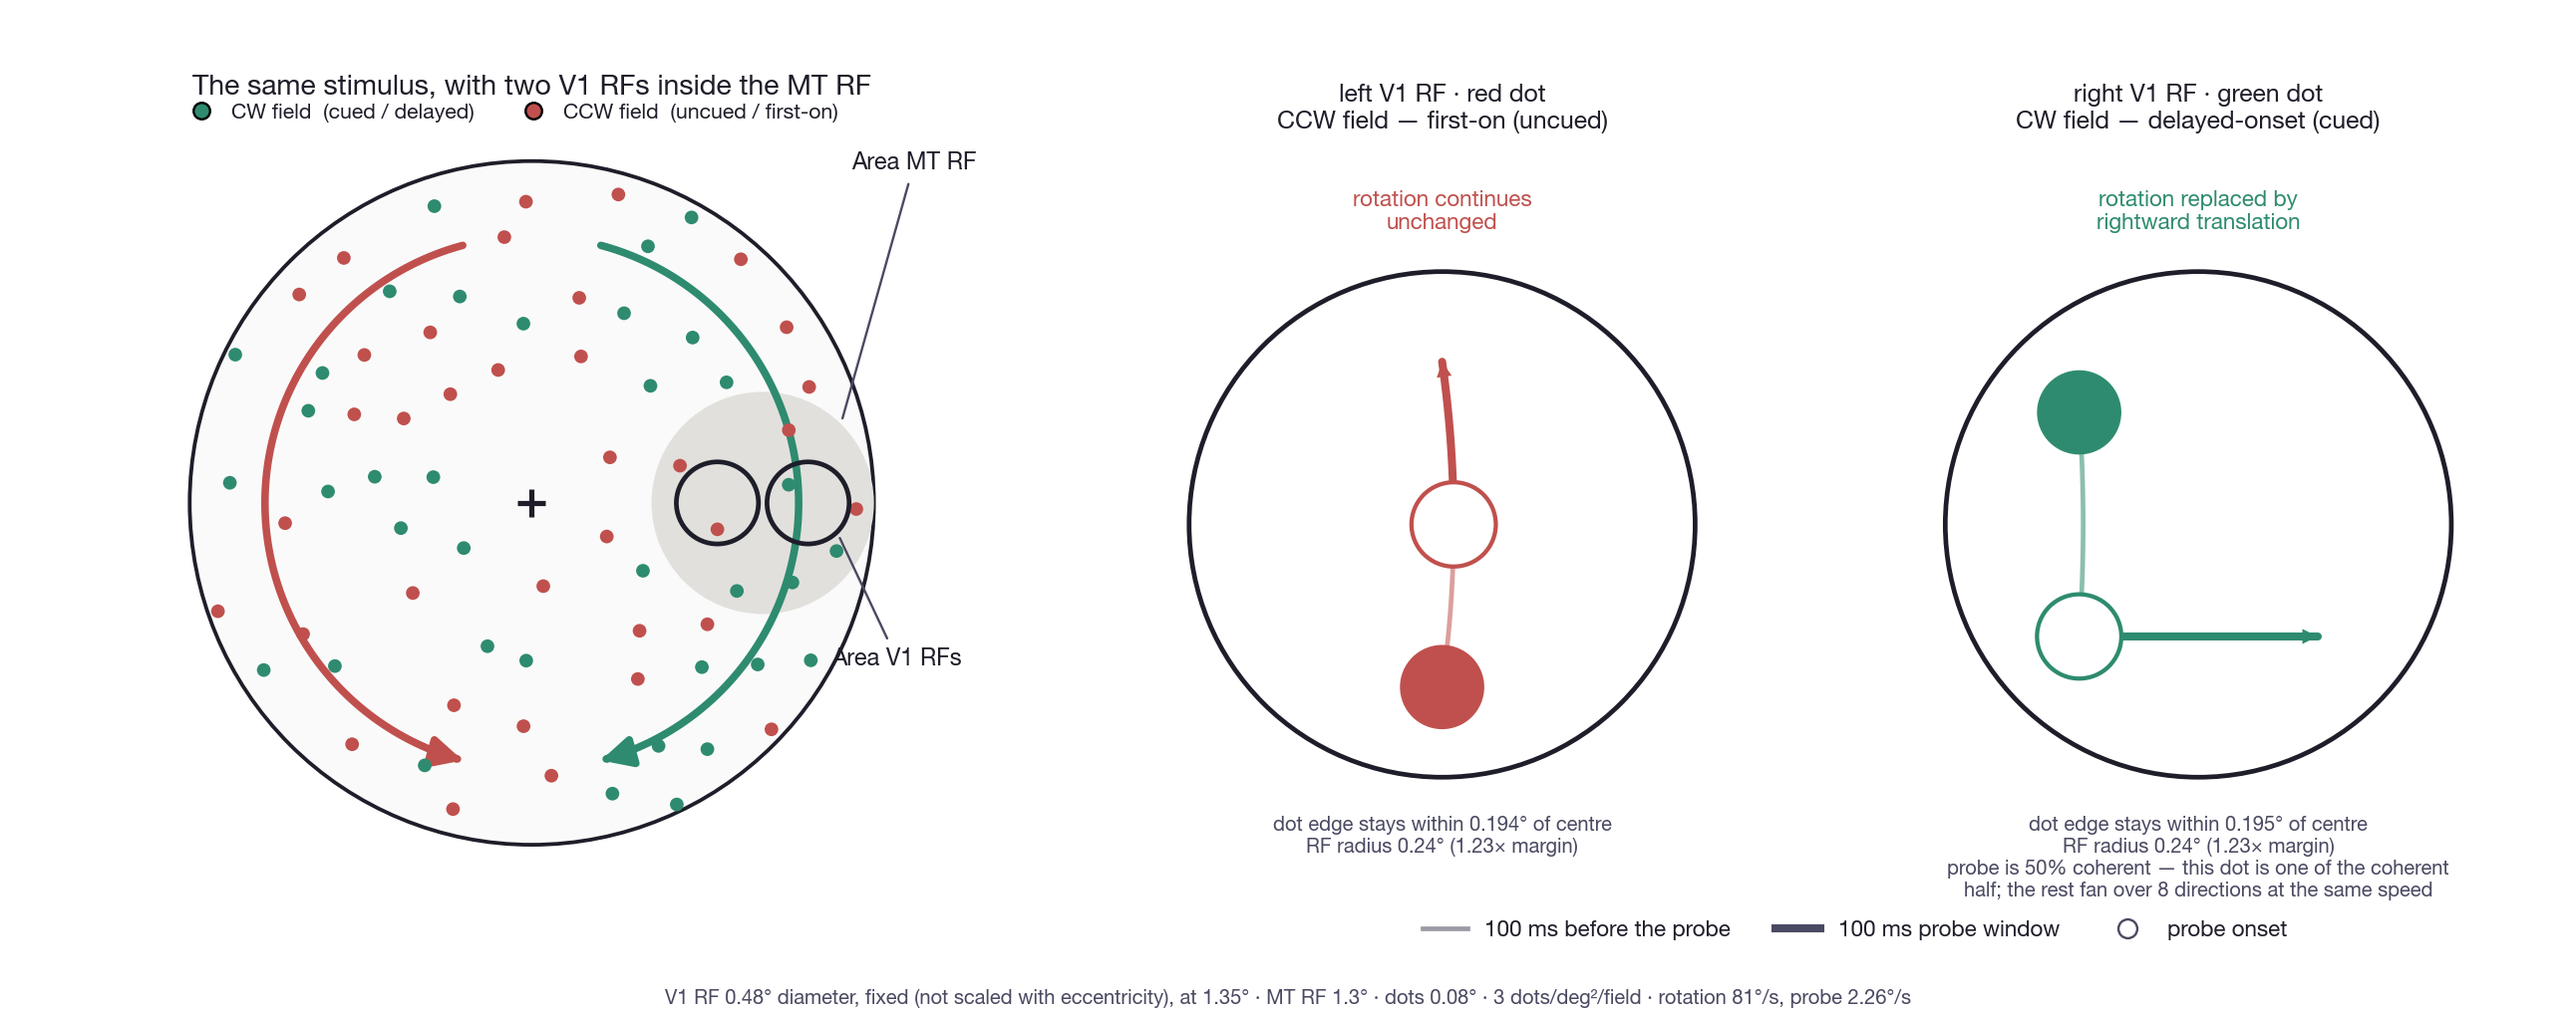
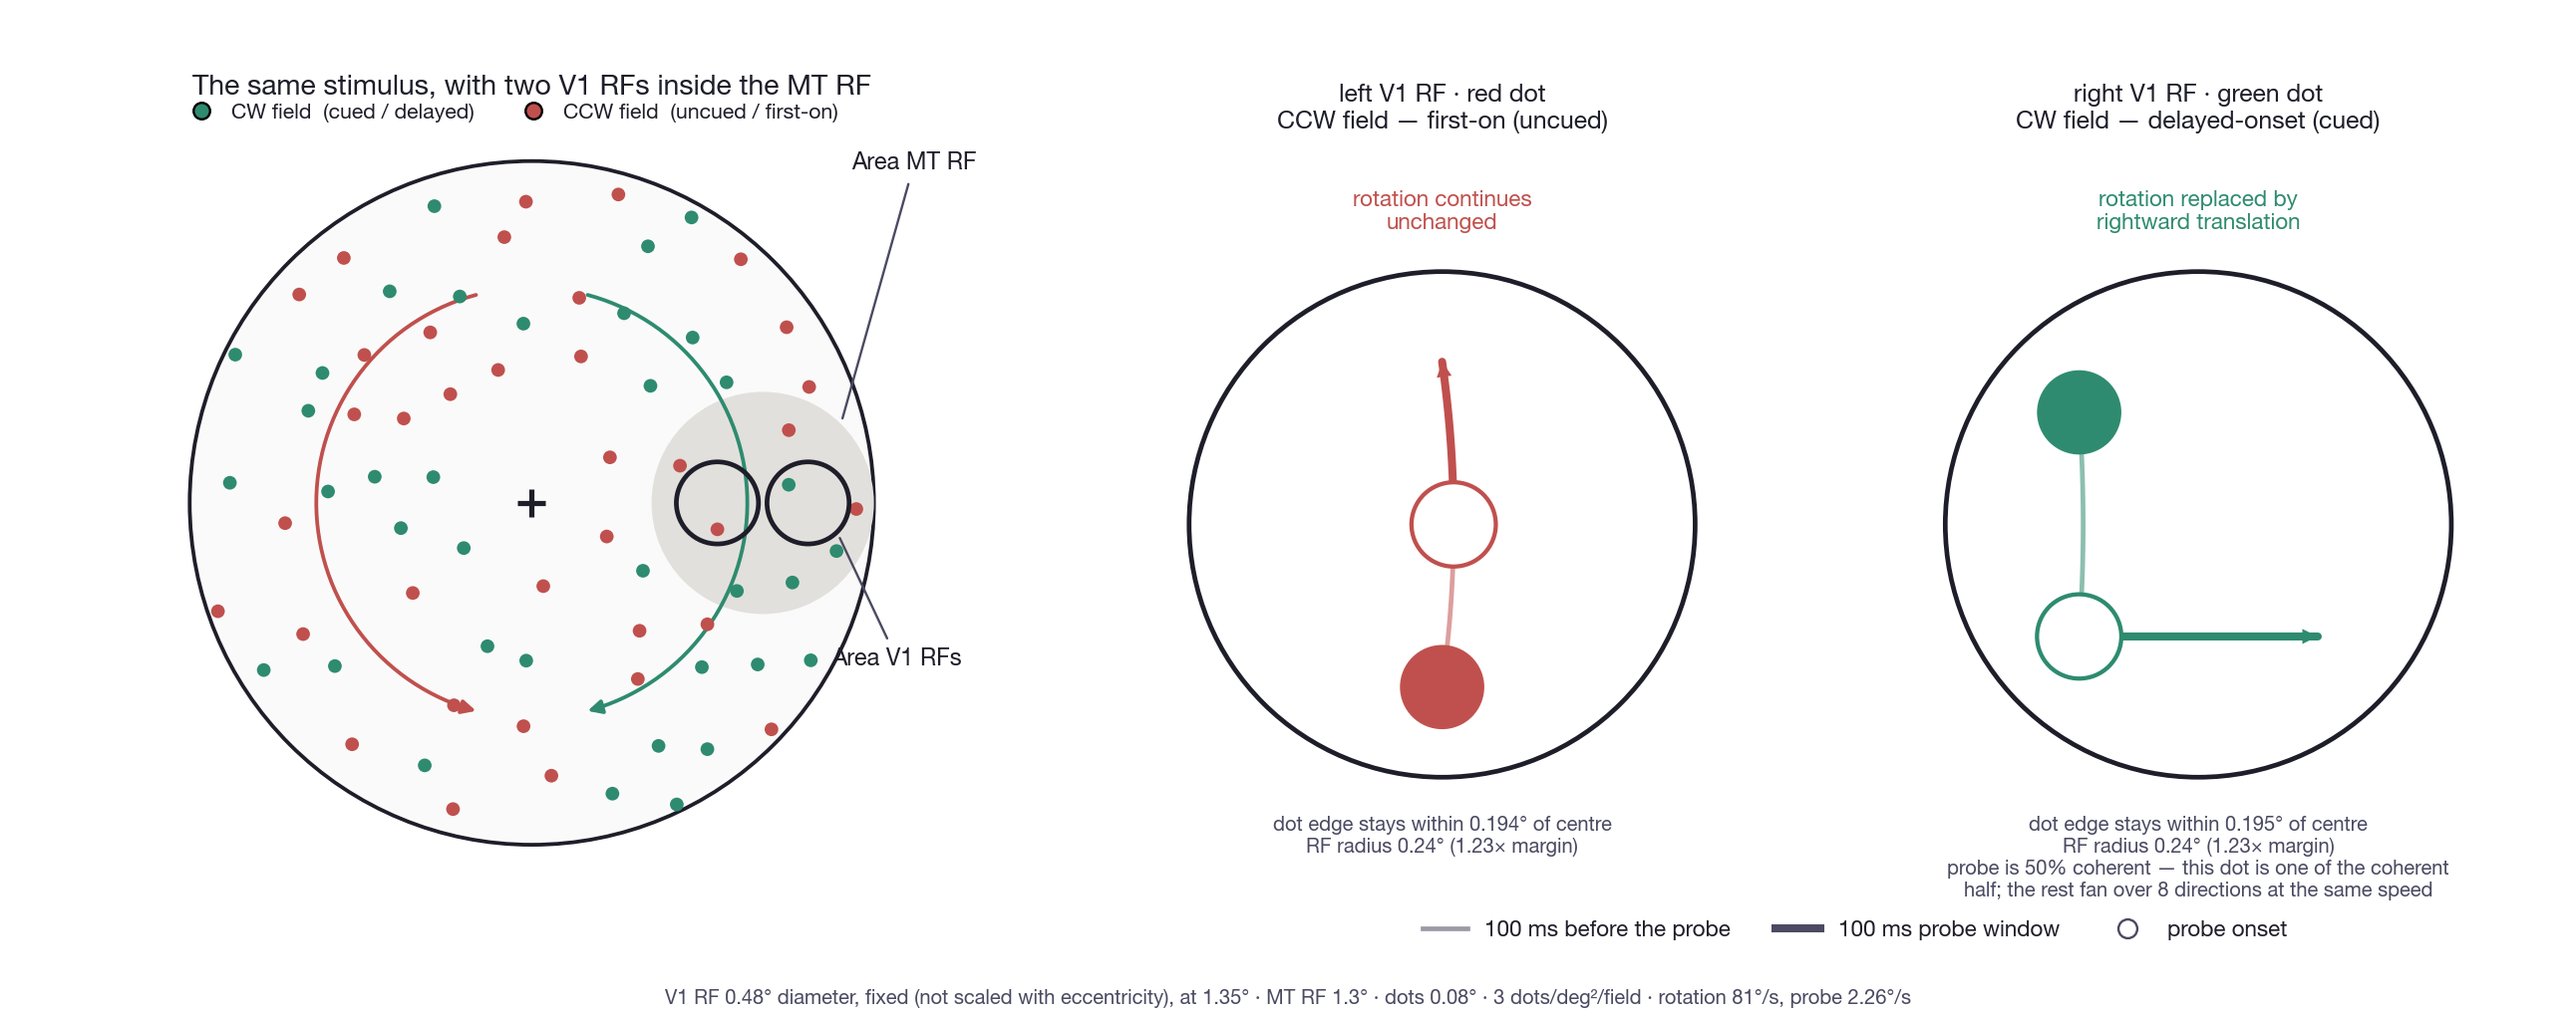
Make the rotation arcs subordinate to the RFs, after S&B Fig. 8A
The arcs were carrying too much weight. Fig. 1A, which I had matched, has no
RFs in it -- the arcs ARE that panel, so they are drawn bold. These two figures
descend from Fig. 8A instead: same MT disc, same two V1 RFs, same "Area MT RF"
and "Area V1 RFs" leaders. There the arcs are hairline with small heads,
precisely so the RFs stay the subject.

So weight and radius now come from Fig. 8A -- lw 3.2 -> 1.6, head 26 -> 12,
radius 0.78 -> 0.63 of the aperture -- while the geometry stays Fig. 1A's:
mirrored near-semicircles, equal 30 deg gaps, heads converging at the bottom.
The comment records which figure each property came from, since the two
references disagree and a later edit could "restore" the wrong one.

Pulling the radius in changes which V1 RF the green arc crosses: the left one
now (1.26 deg), the right one before. No radius avoids both -- the pair spans
0.845-1.855 deg with a 0.05 deg gap -- and the arcs still draw beneath the dots
and RF outlines, so nothing is broken either way.

diff --git a/Agents/Modeling/sb2010/ps_stimulus_common.py b/Agents/Modeling/sb2010/ps_stimulus_common.py
@@ -116,10 +116,10 @@ TRANS_MS     = 100.0                # probe duration. Real experiments span 40 m
 TRANSLATING_FIELD = "cued"          # "cued" (green) or "uncued" (red)
 
 # ── the rotation-sense arcs, drawn INSIDE the aperture ──
-# The convention is Stoner & Blanc (2010) Fig. 1A's, matched from the paper: two
-# near-semicircular arcs INSIDE the aperture at ~0.78 of its radius, each running
-# from just off the top down its own side, with big filled heads meeting at the
-# bottom. Red takes the left, green the right, and the heads point at each other.
+# GEOMETRY is Stoner & Blanc (2010) Fig. 1A's, matched from the paper: two
+# near-semicircular arcs INSIDE the aperture, each running
+# from just off the top down its own side, with the heads meeting at the bottom.
+# Red takes the left, green the right, and the heads point at each other.
 #
 # The senses are the true ones for the side each arc sits on -- at the left
 # counter-clockwise is locally down, at the right clockwise is locally down -- so
@@ -136,17 +136,26 @@ TRANSLATING_FIELD = "cued"          # "cued" (green) or "uncued" (red)
 # onto the other's side and the two arcs visibly overlap at the top. The
 # assertion below pins the mirror relation so it cannot regress silently.
 #
-# The green arc has to cross both the shaded MT RF and, in the V1 figure, the
-# right V1 RF: it sweeps down the right side, the V1 RFs sit on the horizontal
-# axis spanning 0.845-1.855 deg, and the gap between them is 0.05 deg, so no
-# radius threads through. The arcs are therefore drawn BENEATH the dots and the
-# RF outlines (zorder 3, under dots at 4 and V1 circles at 6) -- which is S&B's
-# own layering, and leaves every outline and dot unbroken.
-ROT_ARC_R    = APERTURE_DEG * 0.78
+# RADIUS is 0.63 of the aperture, Fig. 8A's proportion -- tucked well inside,
+# clear of the rim, so the arcs sit under the RFs rather than framing them.
+#
+# The green arc has to cross both the shaded MT RF and, in the V1 figure, one of
+# the V1 RFs: it sweeps down the right side, the V1 pair sits on the horizontal
+# axis spanning 0.845-1.855 deg with a 0.05 deg gap between them, so no radius
+# threads through. At 0.63 (1.26 deg) it crosses the LEFT one; at 0.78 it crossed
+# the right. Either way the arcs are drawn BENEATH the dots and the RF outlines
+# (zorder 3, under dots at 4 and V1 circles at 6) -- S&B's own layering -- so
+# every outline and dot stays unbroken.
+ROT_ARC_R    = APERTURE_DEG * 0.63
 ROT_ARC_PAD  = 0.14                 # axis margin; the arcs are inside, so this
                                     # only has to clear the aperture rim
-ROT_ARC_LW   = 3.2
-ROT_ARC_HEAD = 26                   # S&B's heads are broad triangles
+# WEIGHT comes from Fig. 8A, not Fig. 1A. Fig. 1A has no RFs in it, so its arcs
+# carry the panel and are drawn bold; Fig. 8A is the RF schematic these two
+# figures actually descend from -- same MT disc, same two V1 RFs, same leaders --
+# and there the arcs are hairline with small heads so the RFs stay the subject.
+# The arcs say which way each field turns and then get out of the way.
+ROT_ARC_LW   = 1.6
+ROT_ARC_HEAD = 12
 CCW_ARC      = (105.0, 255.0, ROT_ARC_R)    # red, down the LEFT, head at bottom
 CW_ARC       = (75.0, -75.0, ROT_ARC_R)     # green, down the RIGHT, head at bottom
 
